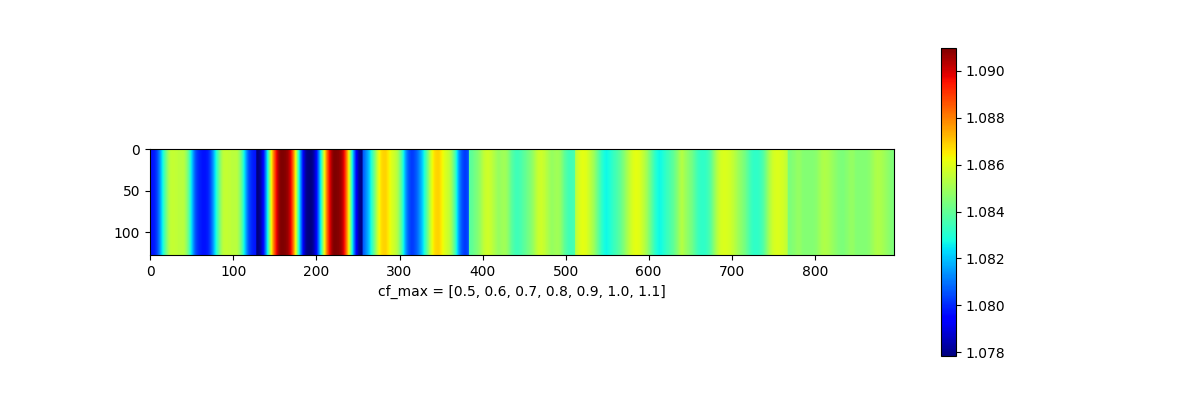
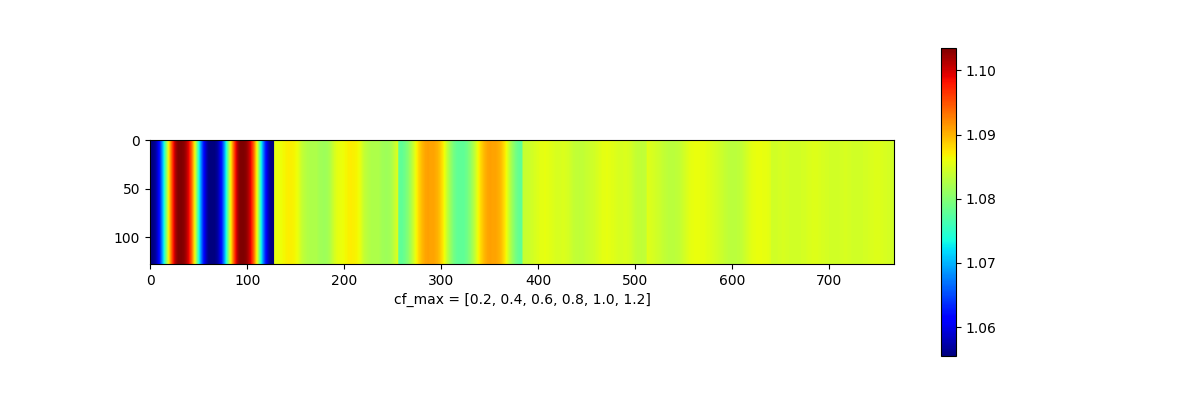
change param set that is run

diff --git a/analysis.py b/analysis.py
@@ -9,7 +9,7 @@ def main():
         if prob_id == 1:
             cf_limits = [0.8, 1.0, 1.2, 1.4, 1.6, 1.8, 2.0]
         elif prob_id == 2:
-            cf_limits = [0.5, 0.6, 0.7, 0.8, 0.9, 1.0, 1.1]
+            cf_limits = [0.2, 0.4, 0.6, 0.8, 1.0, 1.2]
 
         rho = {}
         P_B = {}

diff --git a/README.md b/README.md
@@ -21,13 +21,12 @@ python mhd-boris.py 1 1.4
 python mhd-boris.py 1 1.2
 python mhd-boris.py 1 1.0
 python mhd-boris.py 1 0.8
-python mhd-boris.py 2 1.1
+python mhd-boris.py 2 1.2
 python mhd-boris.py 2 1.0
-python mhd-boris.py 2 0.9
 python mhd-boris.py 2 0.8
-python mhd-boris.py 2 0.7
 python mhd-boris.py 2 0.6
-python mhd-boris.py 2 0.5
+python mhd-boris.py 2 0.4
+python mhd-boris.py 2 0.2
 python analysis.py
 ```
 
